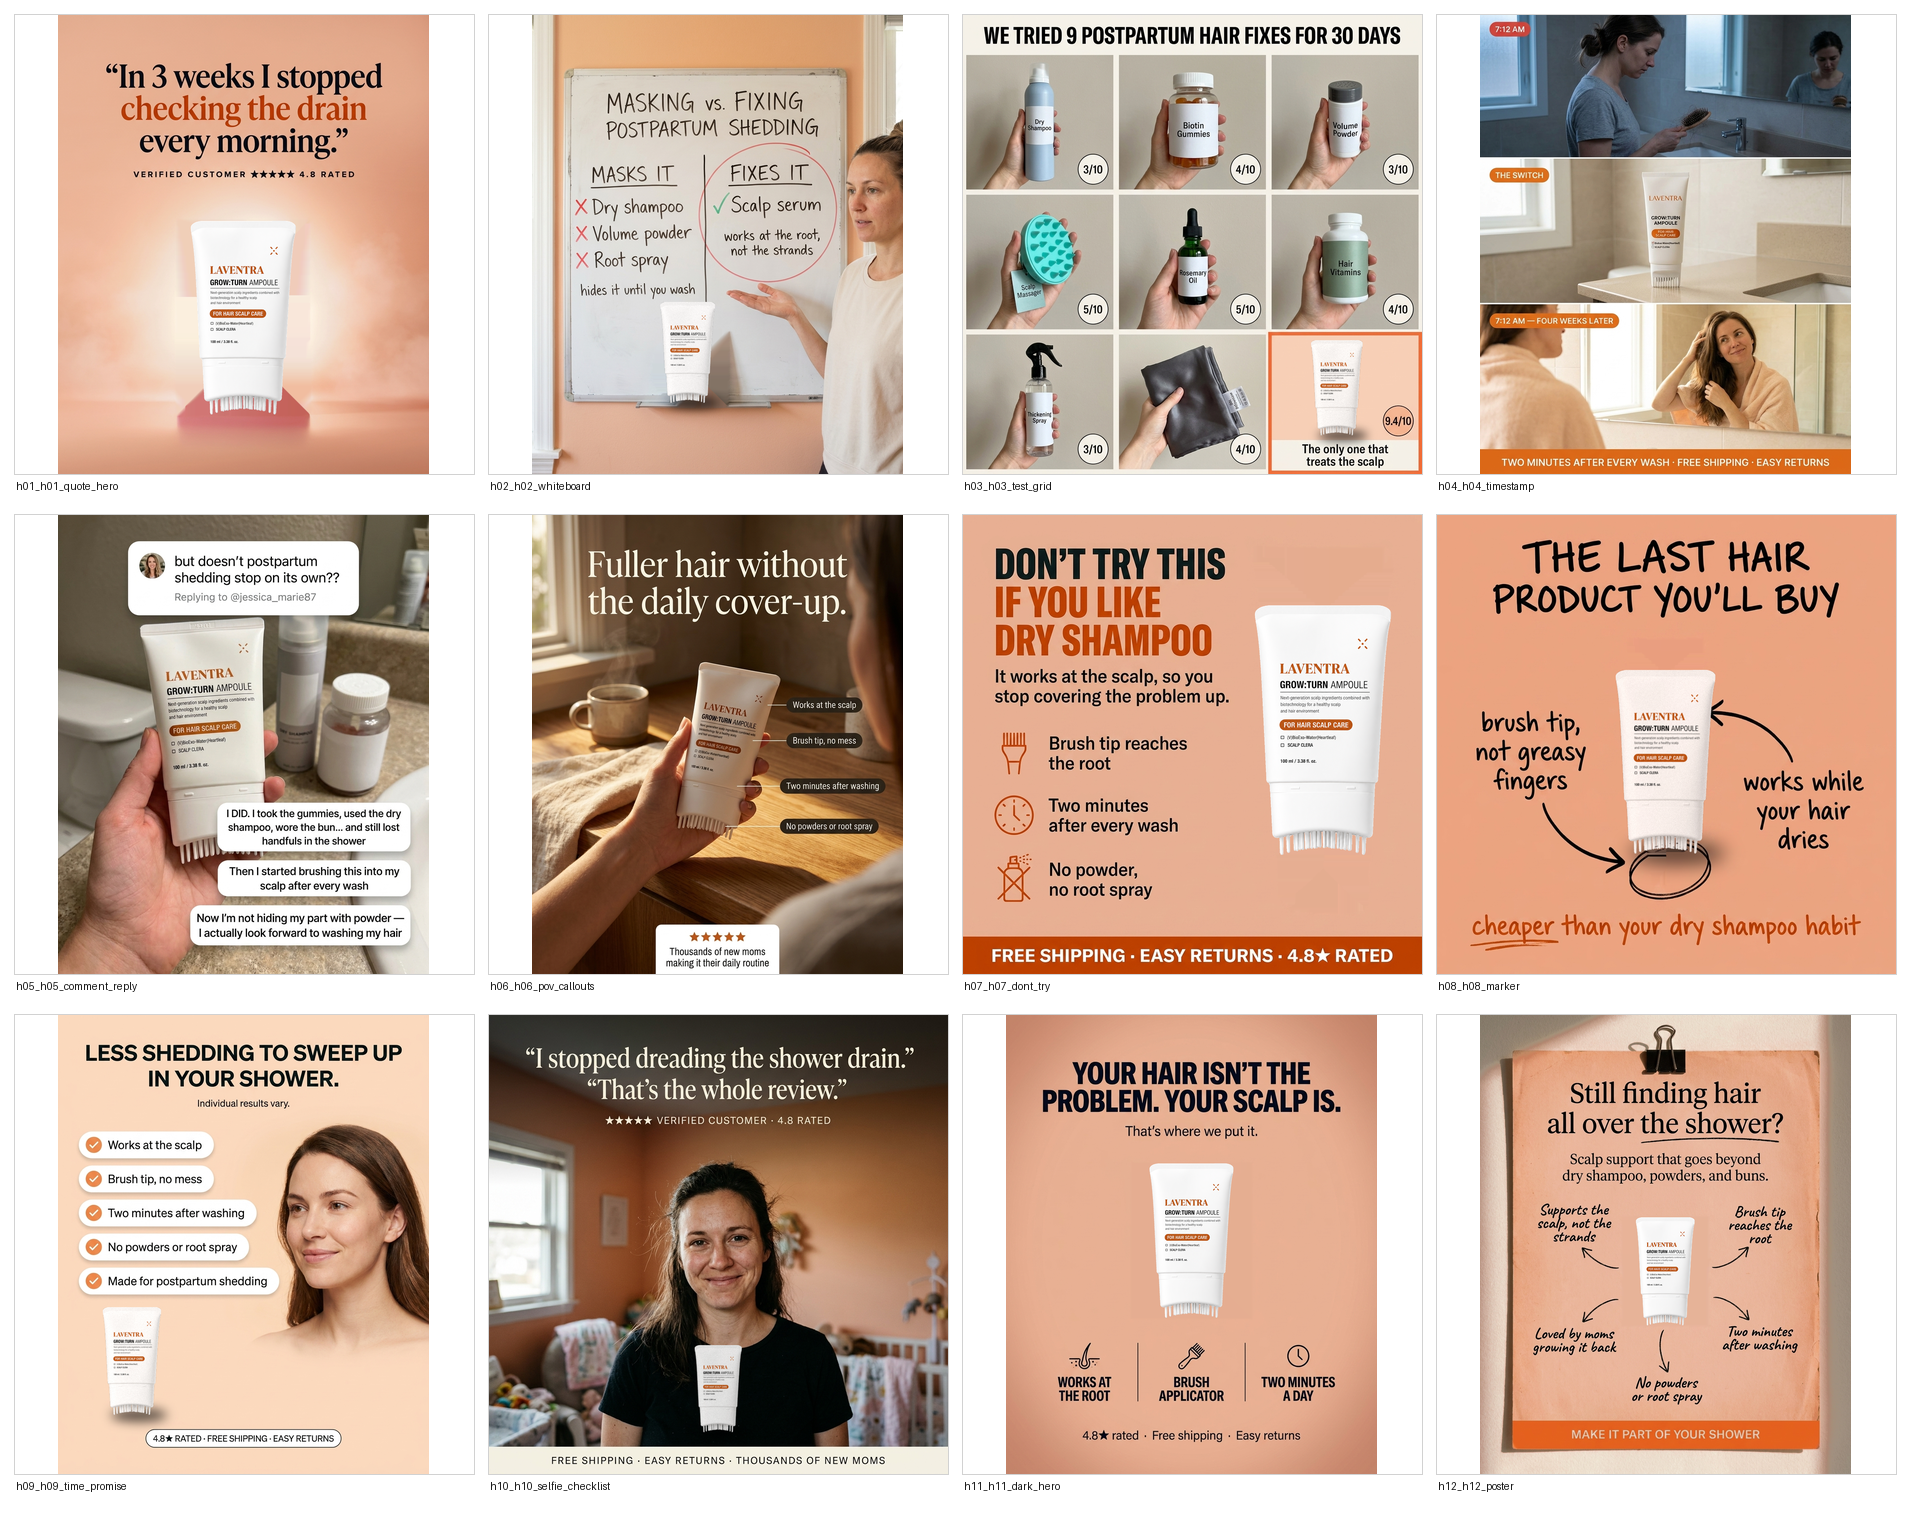
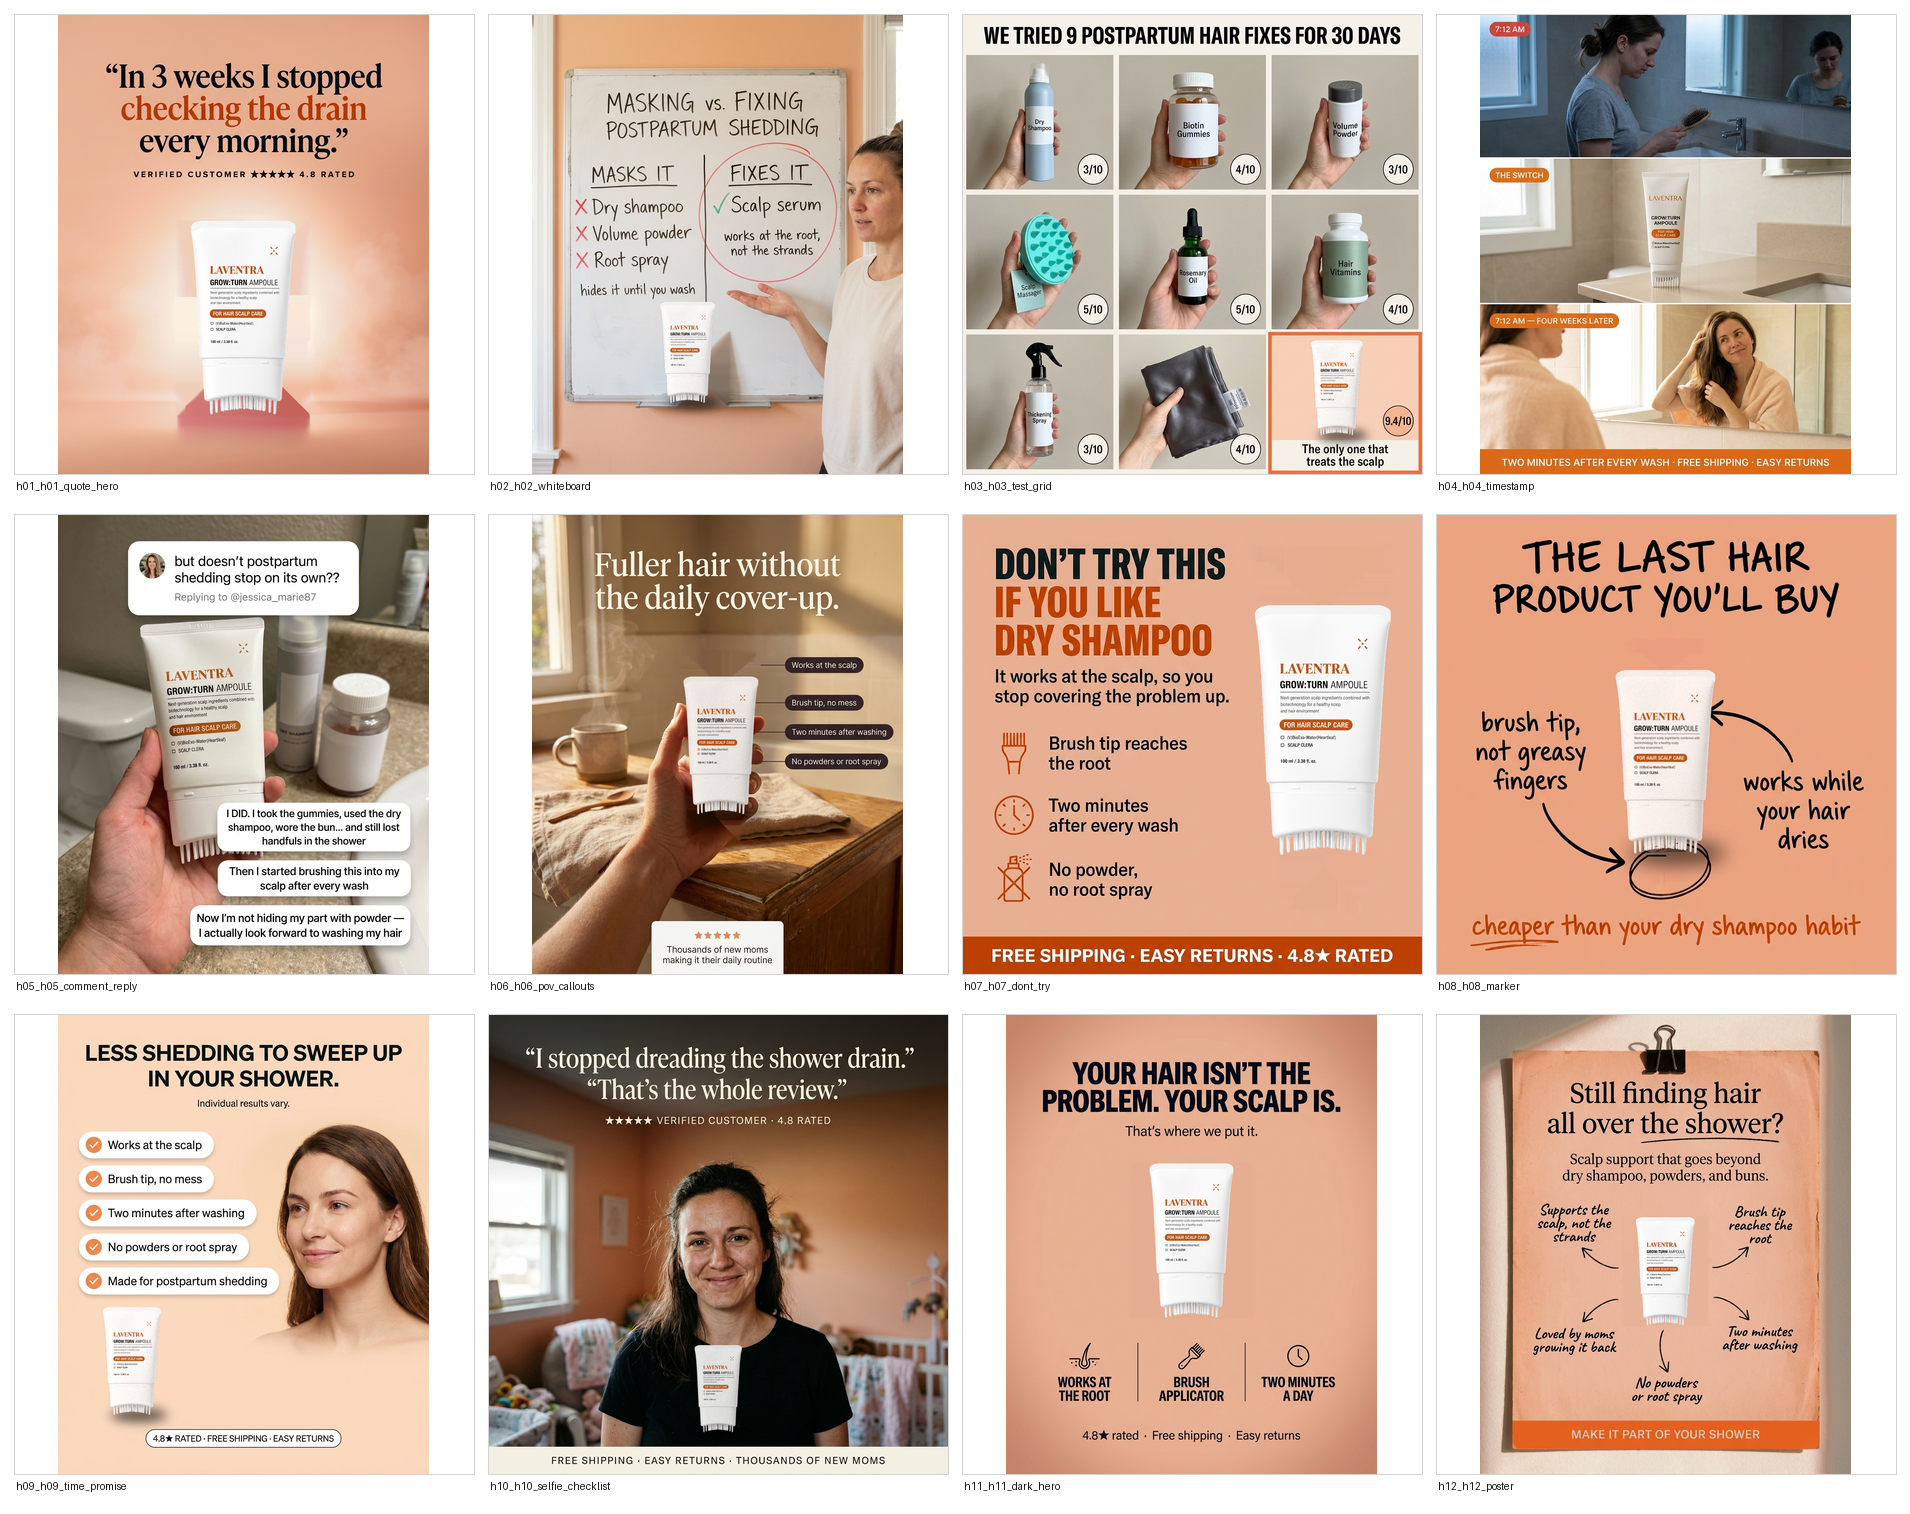
Remove the woman from h06 and restore a true first-person POV
She was a cropped, out-of-focus fragment — a dark mass in the upper right that
read as a shadow, and a pale shoulder in the lower right — and she broke the
ad's own premise. The concept is first-person: looking down from her eye level
at her own hand. You cannot be inside someone's viewpoint and looking at the
back of her head at the same time. The anatomy did not resolve either: the hand
holding the tube entered from the lower left while the head and shoulder sat on
the right, so the arm joined no body and read as two people.

The right of frame is now simply more of the room — counter, morning light,
blurred wall — which also gives the callout labels a clean field to sit against.
Scene otherwise unchanged: raking window light, mug and steam, linen towel,
wooden grain, 35mm at f/2.

Two things improved as a side effect. The placeholder route worked on this ad
for the first time, so the tube is the real photograph again rather than
model-drawn — which clears h06's garbled "3DKLF CLERA" microcopy off the known-
defect list. And the stencilled compositing landed properly: her fingers wrap
in front of the tube instead of being buried under it.

Square version regenerated to match.

Claude-Session: https://claude.ai/code/session_01R1vXTmH9kjCZ2FRqEWjhNK

Changed region(s): [[0.278, 0.3415, 0.4942, 0.6519]]

diff --git a/.workspace/refine_batch.py b/.workspace/refine_batch.py
@@ -164,6 +164,39 @@ colored patch of any kind beneath or around it.
      "contact with the surface, in the counter's perspective. The counter is matte and "
      "shows no reflection of it whatsoever."),
 
+    # ── h06: a cropped, out-of-focus woman occupied the right of frame and broke
+    #    the first-person premise — you cannot be inside her viewpoint and looking
+    #    at the back of her head at the same time. Removed entirely. ────────────
+    "h06_pov_callouts": ("""
+
+NO PERSON IN FRAME — THIS IS THE MAIN CORRECTION. There is NO woman, NO head, NO hair,
+NO face, NO shoulder, NO torso and no part of any body in this image except ONE HAND and
+the FOREARM attached to it. The previous version showed the back of a woman's head in the
+upper right and her shoulder in the lower right; both are removed completely.
+
+TRUE FIRST-PERSON POINT OF VIEW. The camera IS her eyes. It looks down and slightly
+forward from her own head height at her own hand holding the product out in front of
+her. You cannot see her, because you are her. Nothing of the viewer's own body appears
+except that one hand and forearm entering the frame from the lower left.
+
+The right side of the frame, where she used to be, is now simply more of the room: the
+warm wooden counter continuing, soft morning light falling across it, and the softly
+blurred kitchen wall beyond. Keep that area calm and uncluttered so the callout labels
+sit cleanly against it.
+
+THE SCENE stays exactly as it was and is the reason this ad works: low golden morning
+light raking in through the window at the left, a ceramic mug of coffee with steam
+rising, a folded linen towel, warm wooden counter with visible grain, dust in the air.
+Shallow depth of field, filmic, unhurried, domestic and quiet. Shot on a 35mm lens at
+f/2 from eye level.
+
+Realism ON: natural light only, real skin texture on the hand with visible knuckle
+creases and natural nails, no smoothing, no studio fill.
+""", "the magenta shape is held upright in her hand at the centre-left of frame, at the "
+     "natural size of a 100 ml tube — about the length of her hand. Her fingers wrap "
+     "around it and are drawn completely and realistically ON TOP of the magenta so the "
+     "grip is clearly visible."),
+
     # ── h08: the callout arrows pointed at the wrong parts of the product ────────
     "h08_marker": ("""
 
